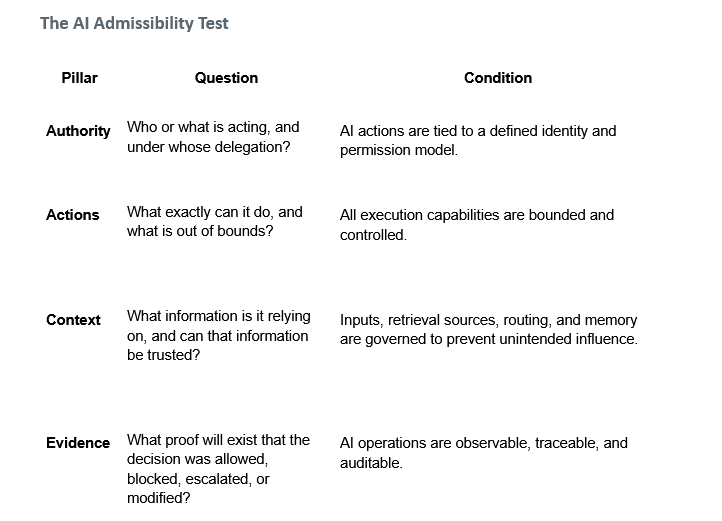
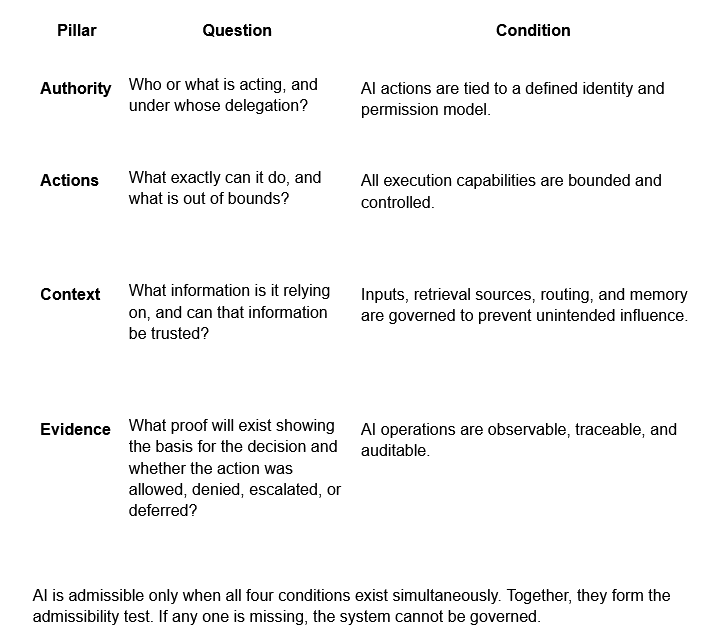
Refresh AI Admissibility framework materials

diff --git a/docs/executive-summary.md b/docs/executive-summary.md
@@ -1,11 +1,11 @@
-# The AI Admissibility Framework: Making AI Safe Through System Control
+# The AI Admissibility Framework: Making AI-Enabled Systems Governable
 Most approaches to AI safety focus on improving the model, through training, testing, or guardrails.
 In practice, this is not sufficient.
 
 AI systems do not behave deterministically. They generate outputs based on patterns and context, which means:
-- Correct behavior in one instance does not guarantee correct behavior in the next
-- Testing shows what happened, not what will happen
-- Guardrails influence behavior but do not enforce it
+- Correct behavior in one instance does not guarantee correct behavior in a different context
+- Testing shows how the system behaved under certain conditions, but it cannot prove how it will behave in every future condition
+- Guardrails and model-level controls can reduce risk and influence behavior but they do not, by themselves, enforce whether a consequential action should occur
 
 As a result, AI systems can take actions without reliable control over whether those actions should occur.
 
@@ -31,17 +31,17 @@ These are not edge cases; they are structural issues in how AI systems are built
 ## The Admissibility Framework in Practice
 The AI Admissibility Framework ensures that actions are only allowed when four conditions are met:
 
-Authority - actions are tied to a valid identity and permission
- → prevents actions without clear authorization
+Authority - actions are tied to a valid identity, scoped permissions, and accountable owner
+ → establishes who or what is acting, on whose behalf, under what authority, and who remains accountable
 
-Actions - execution is constrained to defined boundaries
- → prevents unauthorized or uncontrolled changes
+Actions - execution is limited to permitted operations and defined conditions
+ → helps ensure the system does only what it is authorized to do, in the circumstances where that action is allowed
 
-Context - inputs and data sources are governed
- → prevents untrusted information from influencing behavior
+Context - inputs, data sources, and system context are evaluated for trust, relevance, and authority
+ → reduces the risk that untrusted, stale, poisoned, or unauthorized context influences consequential behavior
 
-Evidence - activity is observable and traceable
- → enables visibility and verification of what occurred
+Evidence - decisions and activity are observable, traceable, and tied to the point of control
+ → supports verification of what was evaluated, what decision was made, and why the action was allowed, denied, escalated, or deferred
 
 Admissibility is enforced at an Admissibility Boundary where actions are evaluated before they occur. The same decision that permits or denies execution also produces the authoritative evidence of that decision. Evidence from the Boundary is not reconstructed; it is generated inline as a byproduct of enforcement. 
 

diff --git a/README.md b/README.md
@@ -21,7 +21,7 @@ Current AI governance often relies on policies, guardrails, testing, and monitor
 Admissibility introduces an explicit decision boundary: before AI-driven behavior affects a system, the system must determine whether the action is allowed.
 
 ## Relationship to the Control Intent Engine
-The Admissibility Framework is complemented by the Control Intent Engine, which evaluates governance intent against system reality and helps operationalize admissibility conditions in practice.The Control Intent Engine is a complementary mechanism for evaluating whether those governing conditions are present in a real system.
+The Admissibility Framework is complemented by the Control Intent Engine, which evaluates governance intent against system reality and helps operationalize admissibility conditions in practice. The Control Intent Engine is a complementary mechanism for evaluating whether those governing conditions are present in a real system.
 [Control Intent Engine](https://github.com/daphne-apollo/control-intent-engine-public)
 
 ## Repository contents
@@ -40,7 +40,7 @@ Links:
 - [AI Coding Agent Example](docs/ai-coding-agent-example.md)
 
 ## Status
-This repository contains the public overview of the AI Admissibility Framework. A longer paper is in progress.
+This repository contains the public overview of the AI Admissibility Framework. A full working paper is now available in the companion repository: [AI Admissibility Framework Working Paper](https://github.com/strategic-grc-security/ai-admissibility-paper-public)
 
 ## License and Use
 
